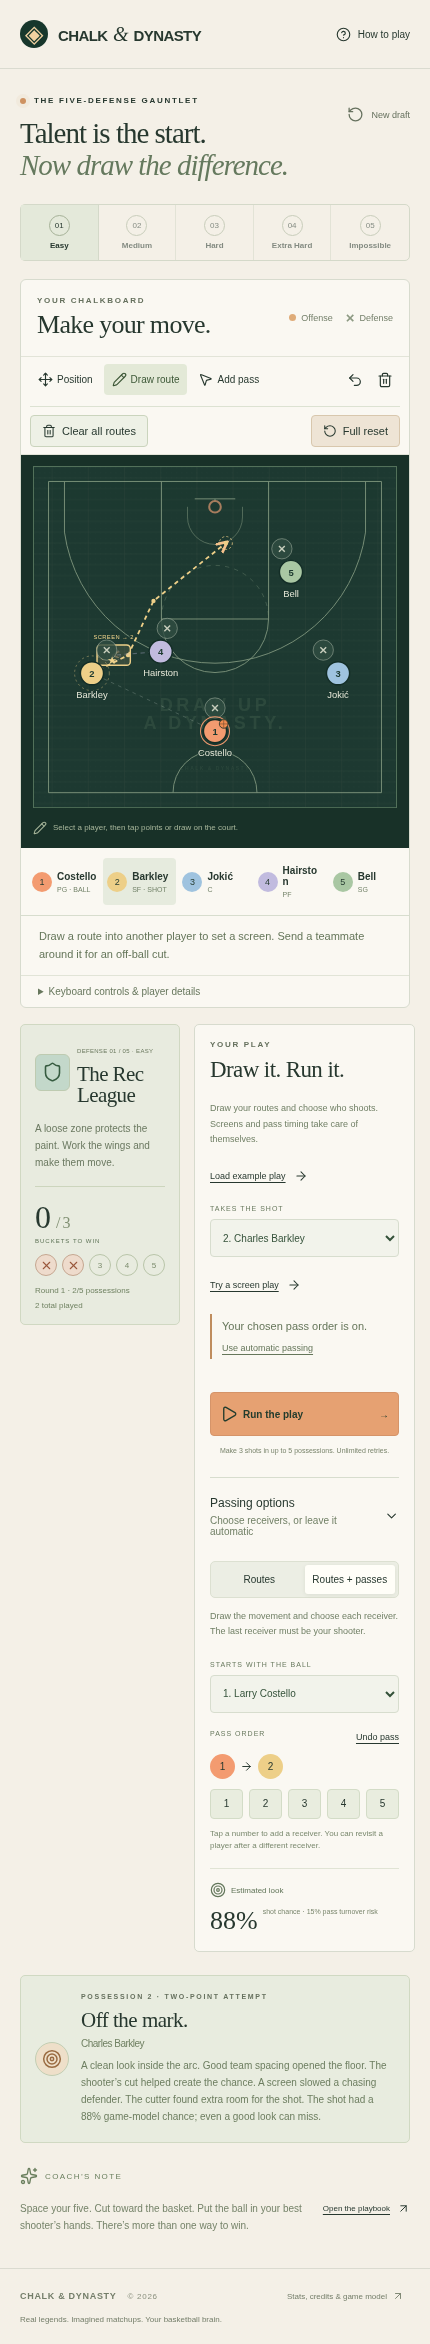
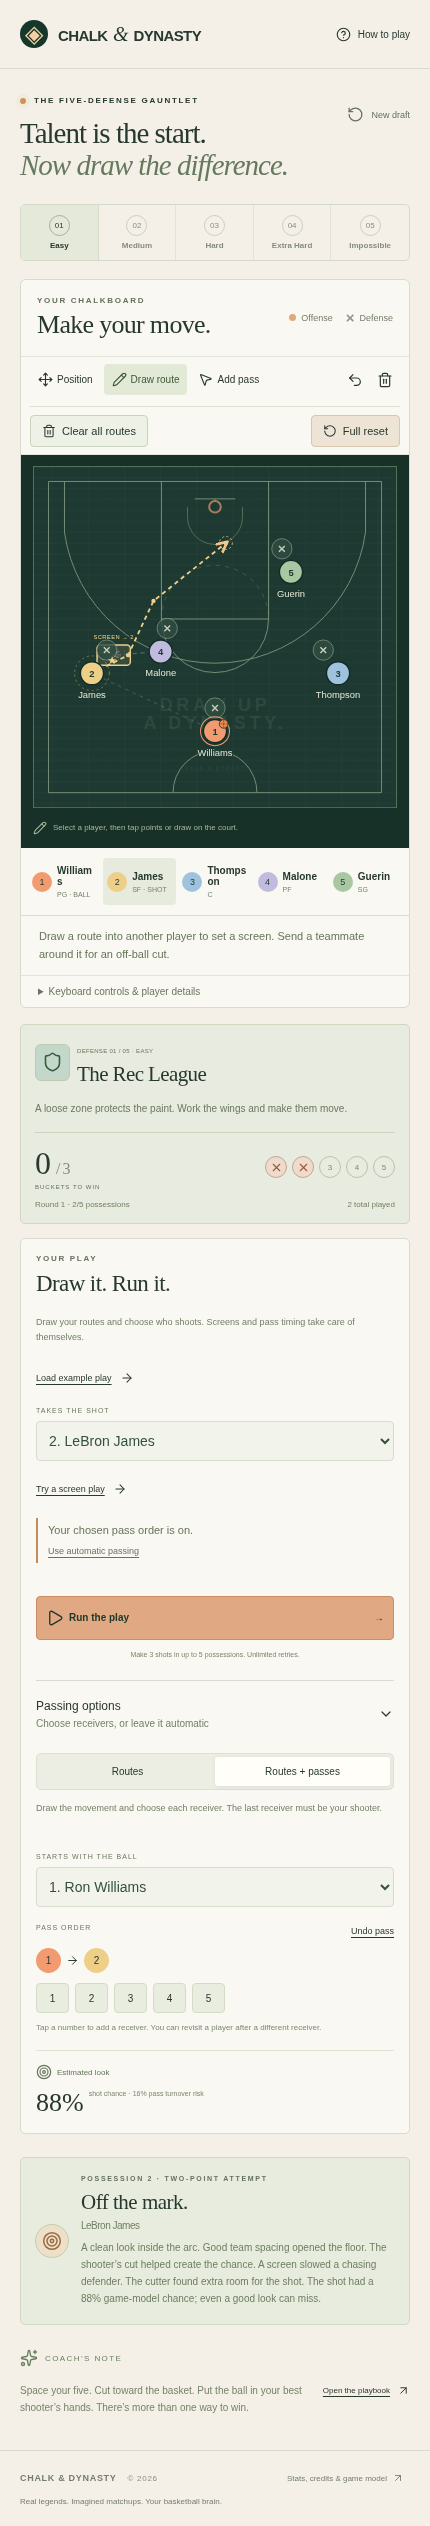
Verify the final phone layout on the public game

diff --git a/docs/VALIDATION.md b/docs/VALIDATION.md
@@ -6,12 +6,14 @@
 
 - `npm test`: **35 passed**, none failed or skipped.
 - Full production-preview browser suite: **22 passed** across desktop and mobile.
+- A final CSS adjustment stacks the play panel across phone widths up to 600 px; the
+  focused desktop/mobile drawing and simple-play checks then passed **4/4** locally.
 - Live Cloudflare browser suite with
   `--grep 'full draft|drawing directly|simple play|optional receiver|clear-all'`:
   **10 passed**, none failed, flaky or skipped, across desktop and mobile.
 - Production build, Cloudflare packaging dry run and actual deployment passed.
-- Application commit: `f6c2fb225a28628b1430320f2a0828568730263c`.
-- Cloudflare version: `757924cf-654c-4ab5-9910-0c5629997393`.
+- Application commit: `9f324f28afbbffada9238eb1d559f1adf5e883ba`.
+- Cloudflare version: `116bfe4e-986d-466d-935d-cdf1eb3dfe9c`.
 
 The unit suite verifies screen intent from routes ending at a defender or teammate,
 stationary teammates beside through-cuts, actual on-ball and off-ball contact, two

diff --git a/docs/DEPLOYMENT.md b/docs/DEPLOYMENT.md
@@ -7,10 +7,10 @@ The complete game is published as an **assets-only Cloudflare Worker** named
 No database, paid resource, custom domain, account provisioning, or billing change
 was created.
 
-- Application source commit: `f6c2fb225a28628b1430320f2a0828568730263c`.
-- Cloudflare version: `757924cf-654c-4ab5-9910-0c5629997393`.
+- Application source commit: `9f324f28afbbffada9238eb1d559f1adf5e883ba`.
+- Cloudflare version: `116bfe4e-986d-466d-935d-cdf1eb3dfe9c`.
 - Account ID: `516850fdbfa65daee3e49f0ed2504d3d` (public identifier).
-- The inferred-screen and automatic-passing update uploaded three changed assets and reused three unchanged assets;
+- The final phone-layout adjustment uploaded two changed assets and reused four unchanged assets;
   the Worker and `workers.dev` trigger deployed successfully.
 - Public HTTPS returns 200 and the expected game title and five draft candidates.
 - Browser tests target the actual public URL; see [validation](VALIDATION.md).
